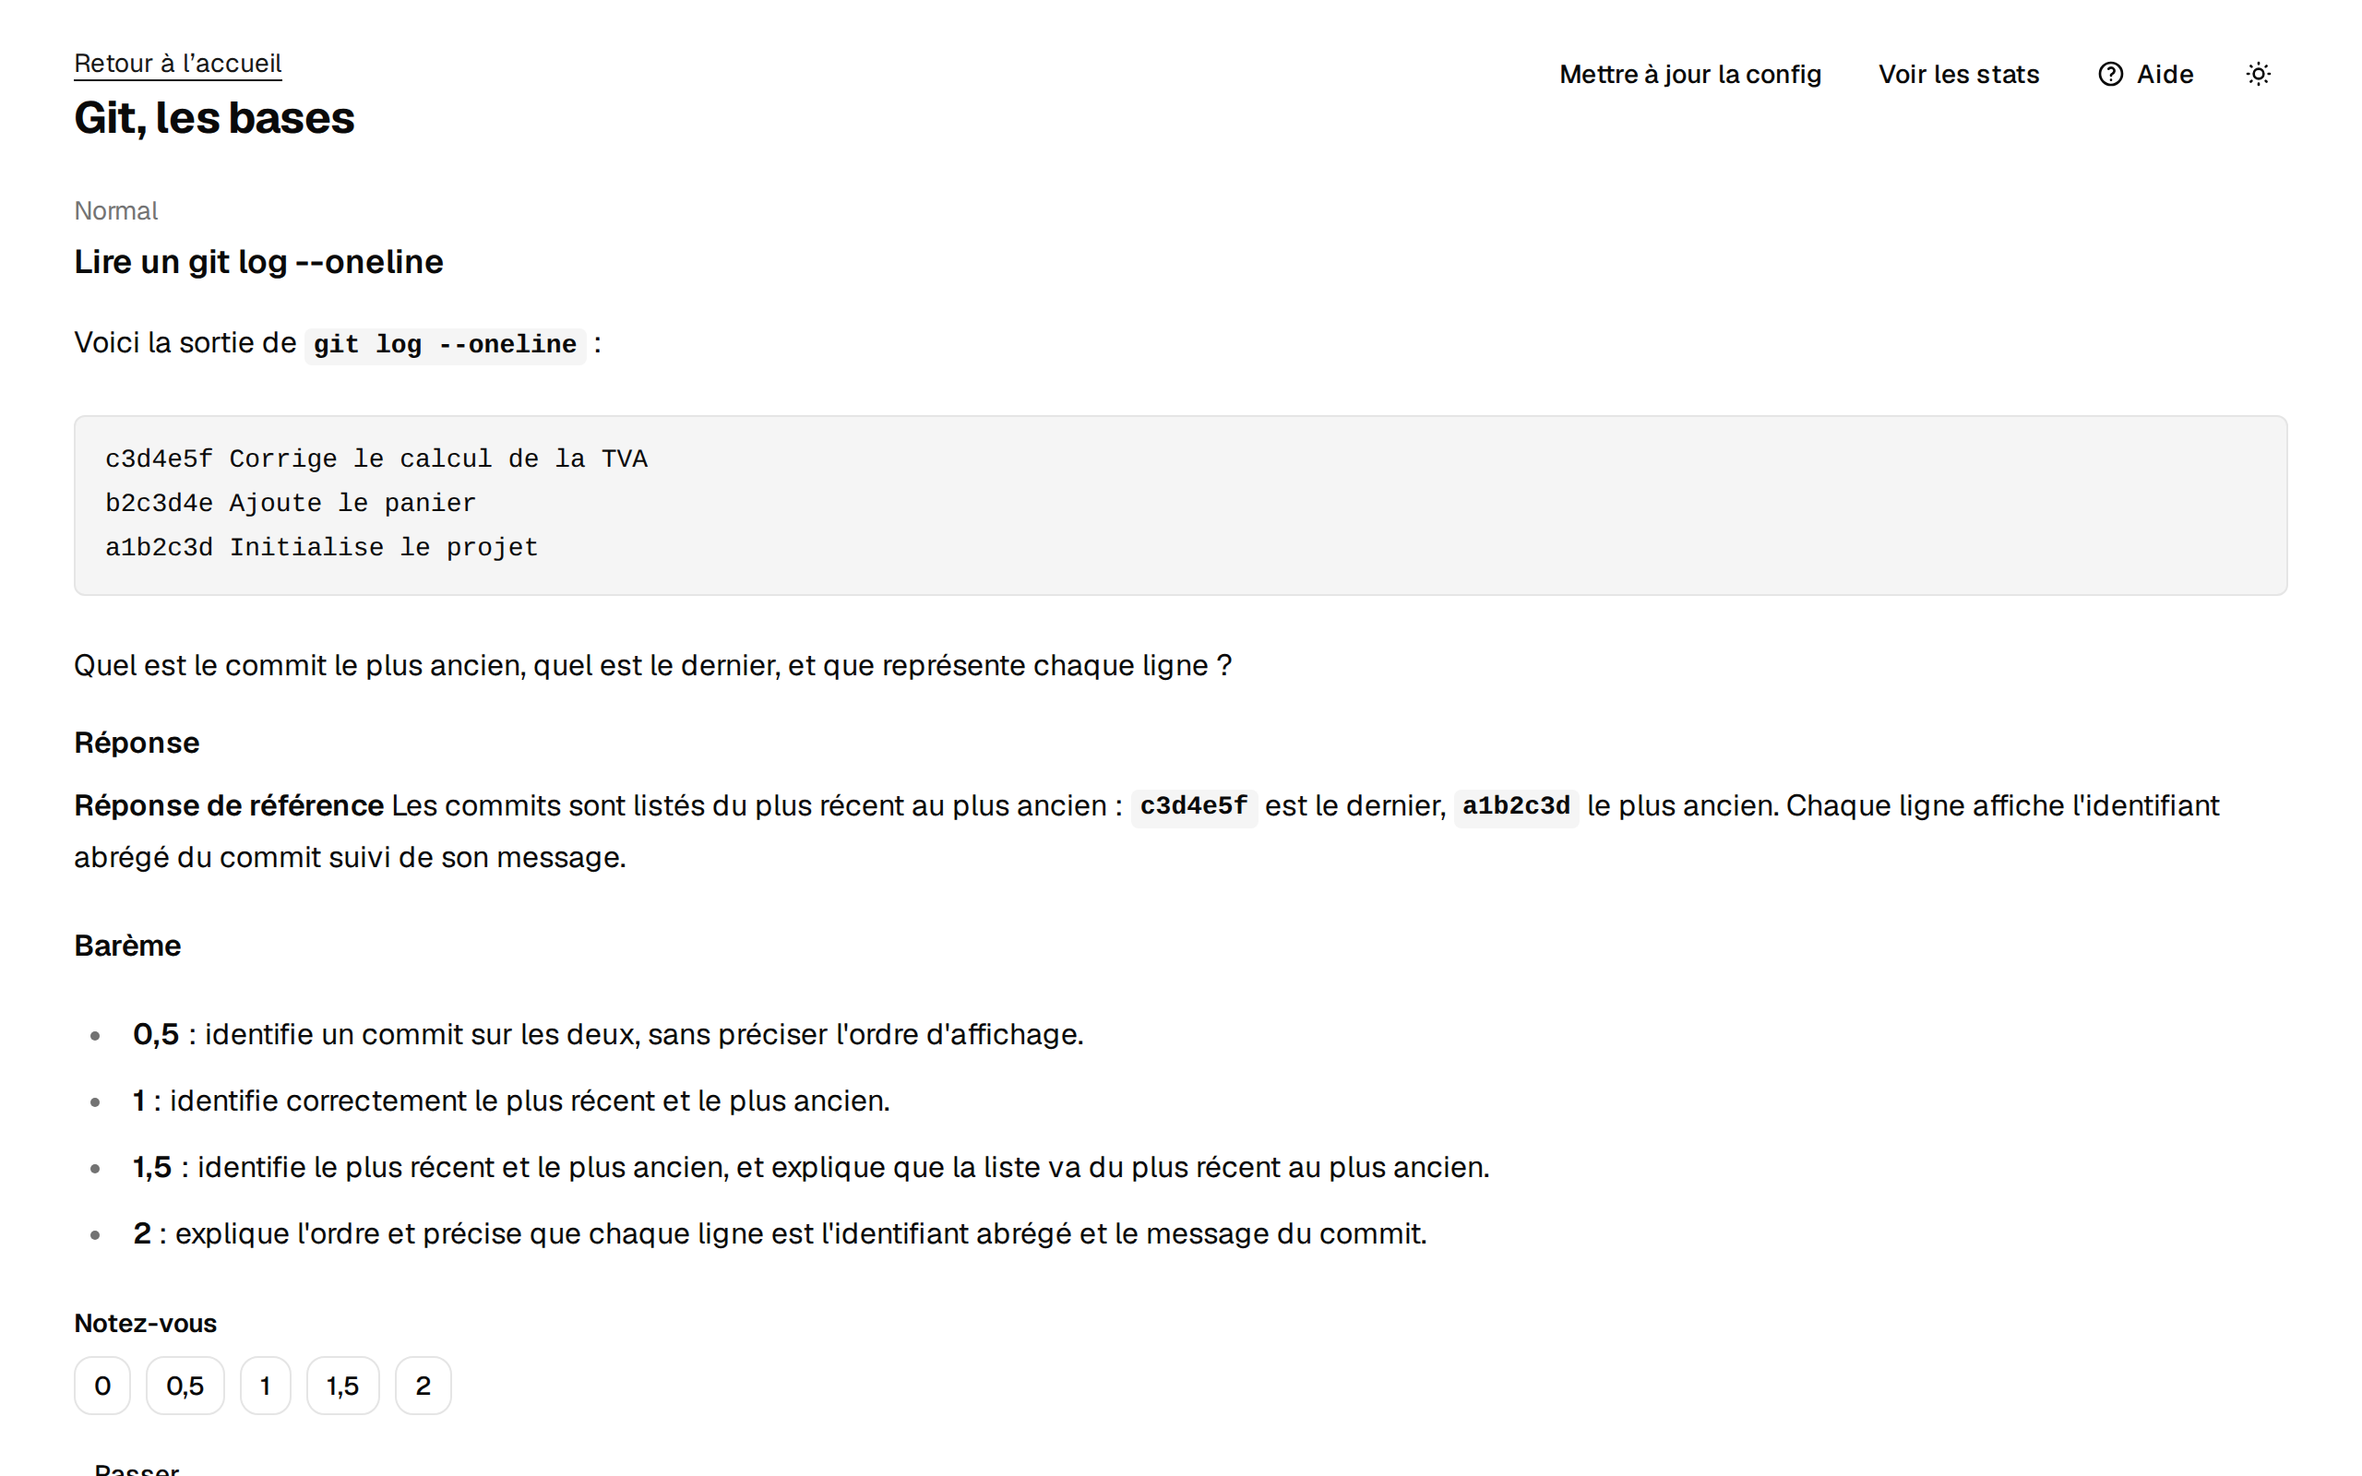
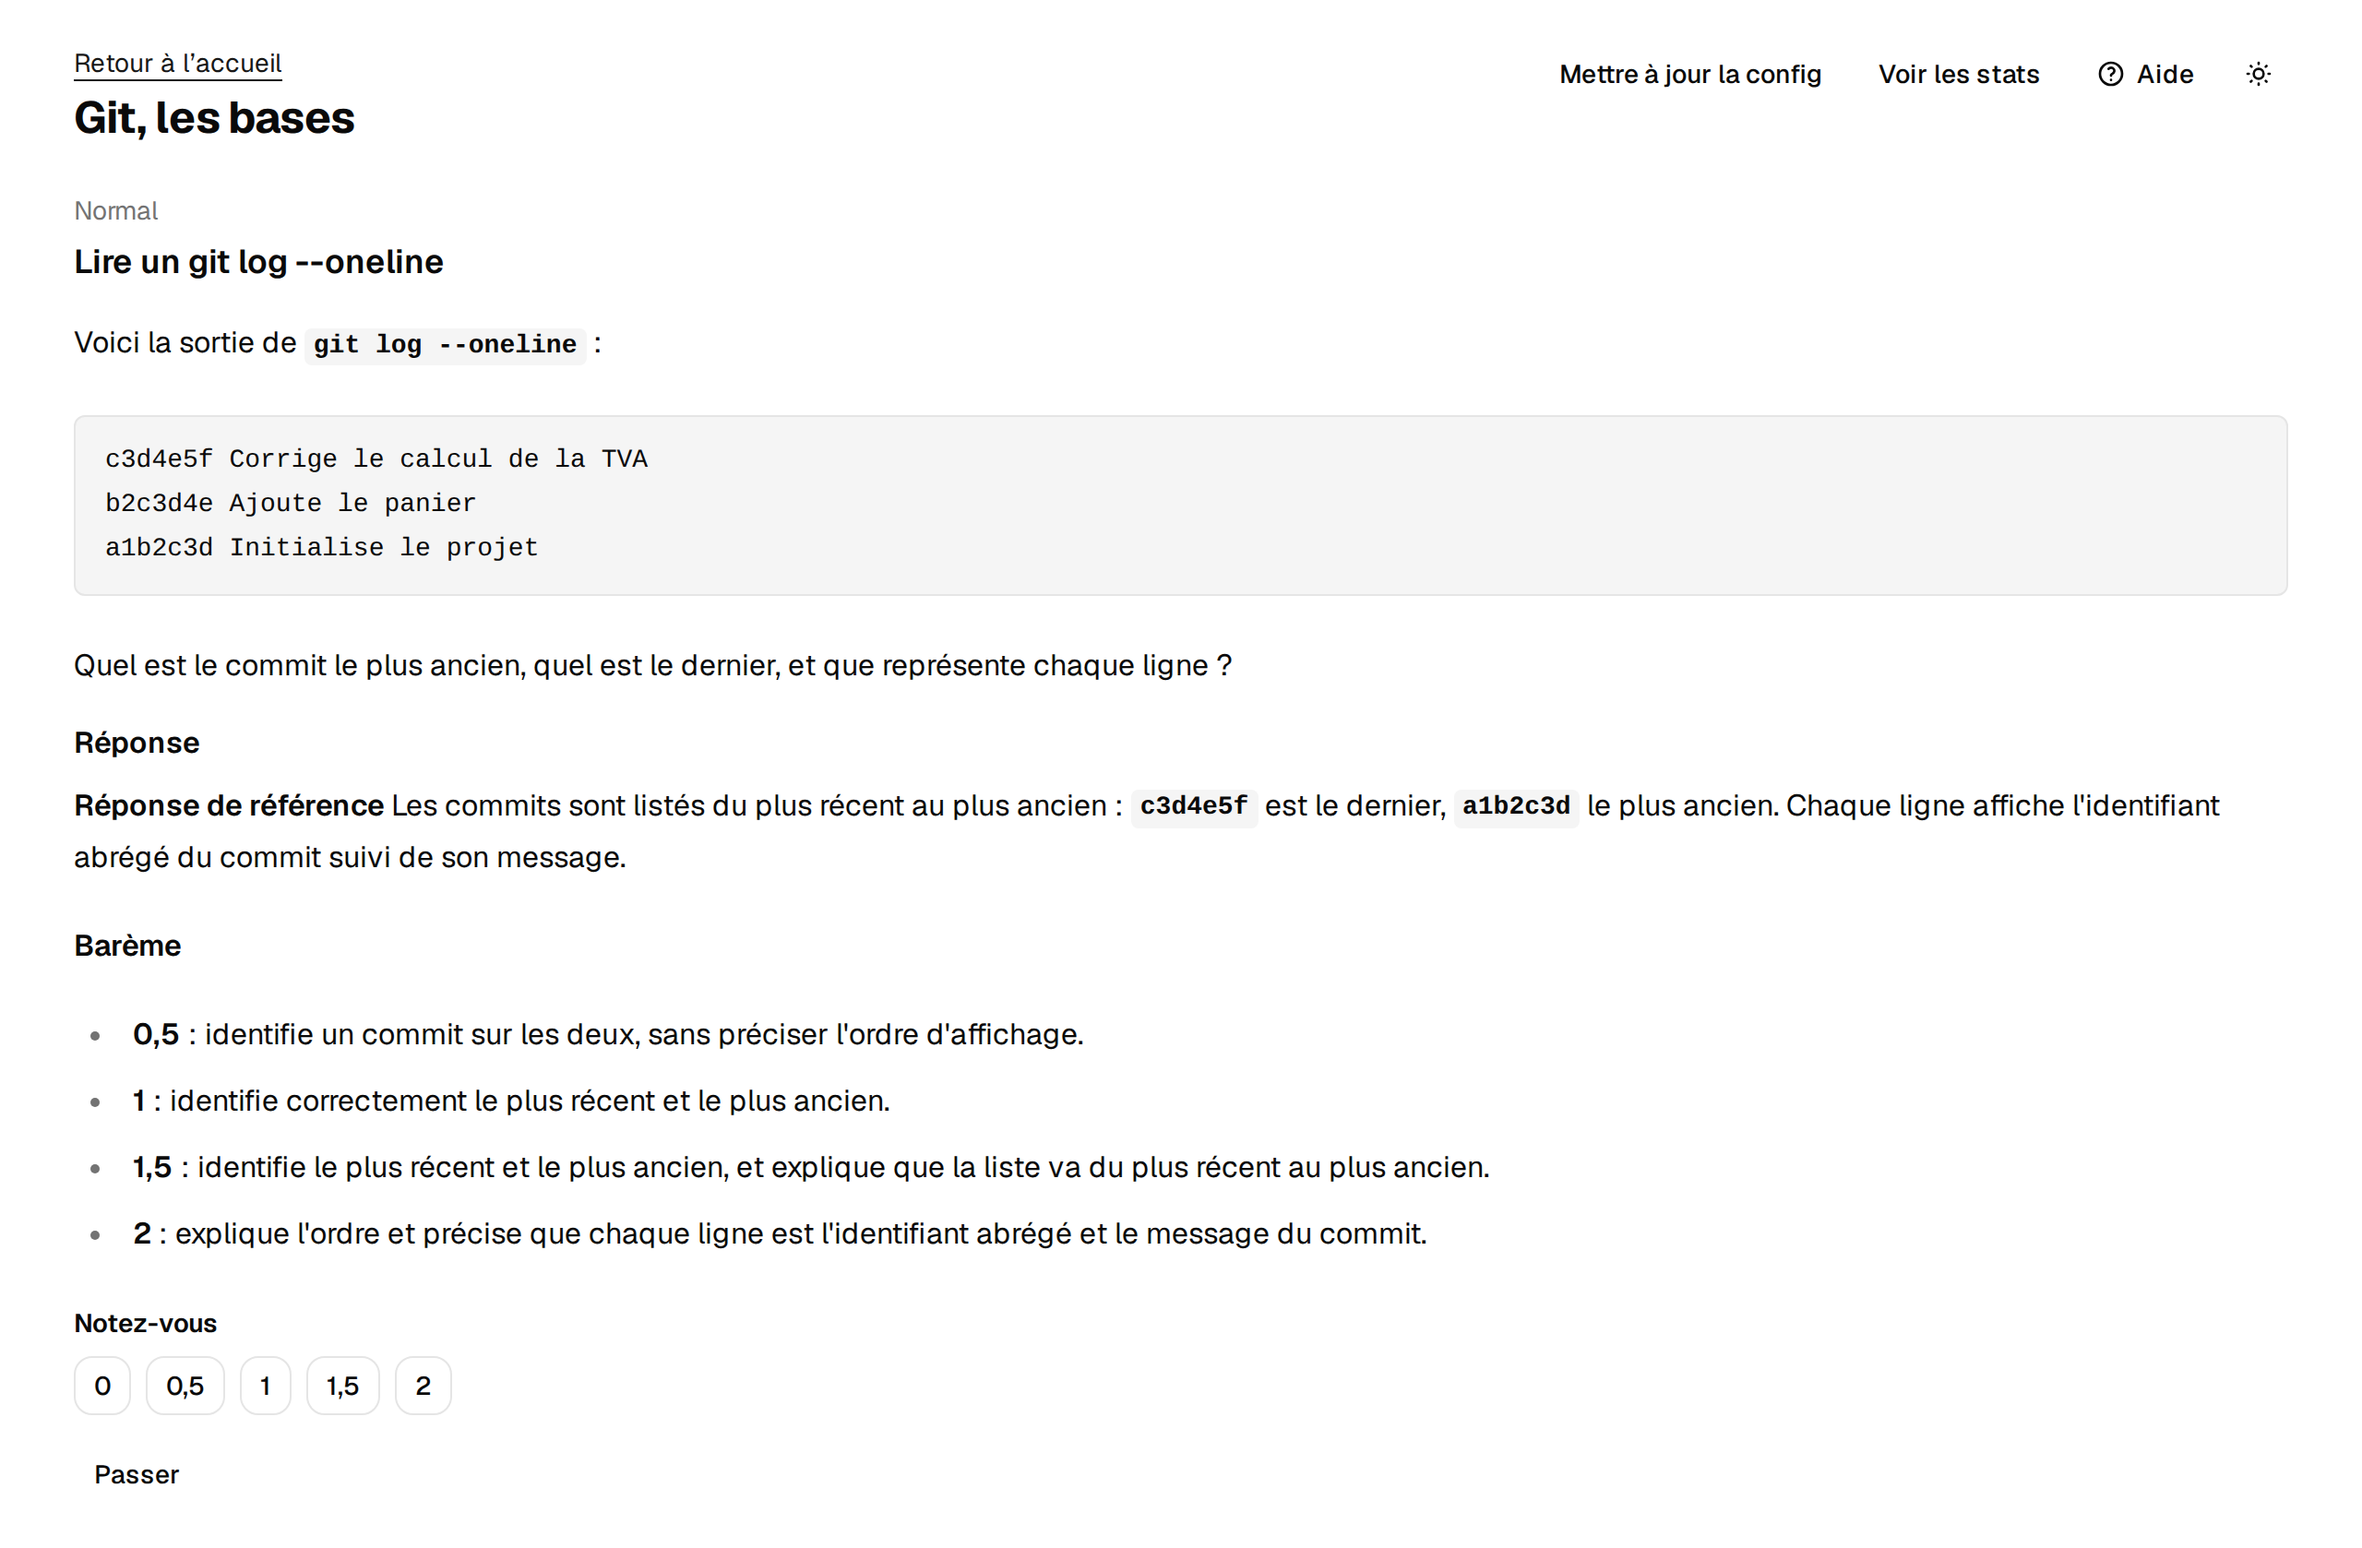
📝 Corrige la liste du guide et la capture de la question d’entraînement
Claude-Session: https://claude.ai/code/session_01Xy2DSgKQywYQtqqvZuaMFw

diff --git a/e2e/screenshots/determinism.ts b/e2e/screenshots/determinism.ts
@@ -56,8 +56,15 @@ export const test = base.extend({
 
 export { expect } from '@playwright/test'
 
-/** Capture `site/public/screenshots/<name>.png` (page entière visible ou élément). */
-export async function capture(target: Page | Locator, name: string): Promise<void> {
+/**
+ * Capture `site/public/screenshots/<name>.png` (partie visible de la page, ou élément).
+ * `fullPage` : toute la hauteur de la page, pour un écran plus haut que la fenêtre.
+ */
+export async function capture(
+  target: Page | Locator,
+  name: string,
+  options: Readonly<{ fullPage?: boolean }> = {},
+): Promise<void> {
   // Polices chargées avant la prise de vue (garde contre une variation de rendu du texte).
   const page = 'goto' in target ? target : target.page()
   await page.evaluate(() => document.fonts.ready)
@@ -65,5 +72,6 @@ export async function capture(target: Page | Locator, name: string): Promise<voi
     path: `${OUT_DIR}/${name}.png`,
     animations: 'disabled',
     caret: 'hide',
+    ...('goto' in target && options.fullPage === true ? { fullPage: true } : {}),
   })
 }

diff --git a/e2e/screenshots/guide.spec.ts b/e2e/screenshots/guide.spec.ts
@@ -125,7 +125,8 @@ test('entraînement : mise en place, question révélée, stats', async ({ page 
   await training.draw('Normal')
   await training.reveal()
   await expect(training.answerTitle).toBeVisible()
-  await capture(page, 'entrainement-question')
+  // Page entière : à 800 px de haut, le bouton « Passer » sous la réponse serait coupé.
+  await capture(page, 'entrainement-question', { fullPage: true })
 
   // Quelques notes, dont deux sous la moitié du barème (« À revoir »), et un passage.
   await training.score('1,5')

diff --git a/docs/HANDOFF.md b/docs/HANDOFF.md
@@ -28,7 +28,7 @@ corps, sans distinction entre ce qui est fait, en suspens, ou à creuser.
 
 **Dernière chose faite** : F43.4 implémenté sur `feat/137-stats-mise-a-jour`, dernier ticket de F43. `/training/$trainingId/stats` (`features/training-stats/`) : chiffres clés, « À revoir », « Par niveau » et « Par notion » avec barres `Progress`, détail replié. `/training/$trainingId/update` : les 4 étapes de la mise en place, puis le bilan (`diffTrainingConfig`) avant « Mettre à jour ». Liens « Voir les stats » et « Mettre à jour la config » sur l'écran d'entraînement, « Stats » et menu « Mettre à jour la config » sur la carte. `TrainingGate` et écran endommagé partagés dans `components/`, briques de tableau dans `components/stats/`. e2e stats et mise à jour ; captures `entrainement-*` et guide `s-entrainer.md` complétés. Décisions ajoutées à D101.
 
-**Trucs en suspens** : #140 (F43.3) a été mergée dans la nuit après une panne de GitHub Actions : le run avait été annulé, puis relancé à 22:03 UTC. PR du ticket #137 à ouvrir en brouillon, puis `sonar-check.sh --pr <n> --wait` jusqu'au gate vert avant « Ready for review ». Pas de merge sans le go de l'utilisateur.
+**Trucs en suspens** : PR du ticket #137 à ouvrir en brouillon, puis `sonar-check.sh --pr <n> --wait` jusqu'au gate vert avant « Ready for review ». Pas de merge sans le go de l'utilisateur.
 
 **Prochaine chose à creuser** : une fois #137 mergée, F43 est complète. Les idées restantes de l'entraînement sont au BACKLOG (courbe de progression, tirage sur les points faibles, backup, seuil réglable, prompt sans web, compléter une config, brouillon de l'éditeur).
 

diff --git a/site/guide/s-entrainer.md b/site/guide/s-entrainer.md
@@ -16,7 +16,8 @@ Sur l'accueil, cliquez sur « Commencer » dans la carte « S’entraîner ». L
 1. **Rassemblez votre cours.** Réunissez le cours et les ateliers dans un seul PDF ou une seule archive zip.
 2. **Copiez le prompt.** Cliquez sur « Copier le prompt ». L'application confirme par « Prompt copié. ». Si la copie échoue, sélectionnez le texte du champ « Prompt à copier » et copiez-le à la main.
 3. **Récupérez la config.** Collez le prompt dans le LLM, joignez votre fichier de cours et attendez le résultat. **Réglez le LLM sur son effort de réflexion maximal** : plus le cours est long, plus ça compte, et un effort réduit donne des questions superficielles ou un JSON incomplet. Le LLM rend un fichier `.json`, ou un bloc de code JSON.
-![Étape 2 de l’écran S’entraîner : l’encadré « Réglez le LLM sur son effort de réflexion maximal », le prompt à copier et le bouton Copier le prompt.](/screenshots/entrainement-mise-en-place.png)
+
+   ![Étape 2 de l’écran S’entraîner : l’encadré « Réglez le LLM sur son effort de réflexion maximal », le prompt à copier et le bouton Copier le prompt.](/screenshots/entrainement-mise-en-place.png)
 
 4. **Déposez-la.** Déposez le fichier dans « Config (JSON) ». Si le LLM n'a rendu qu'un bloc de code, collez-le dans « … ou collez le JSON ici », puis cliquez sur « Vérifier le JSON collé ».
 
